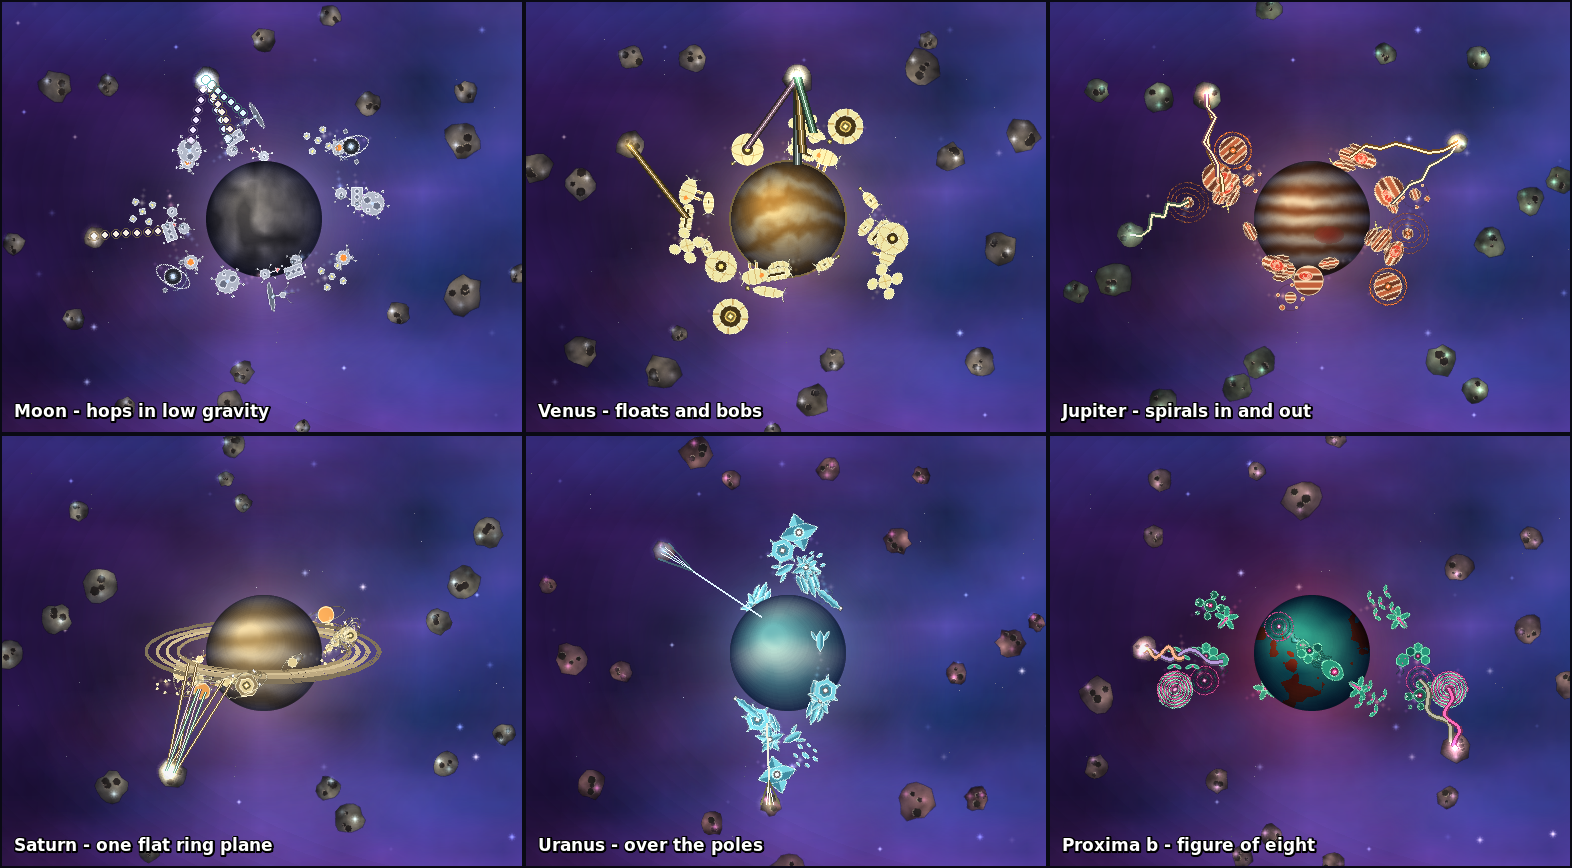
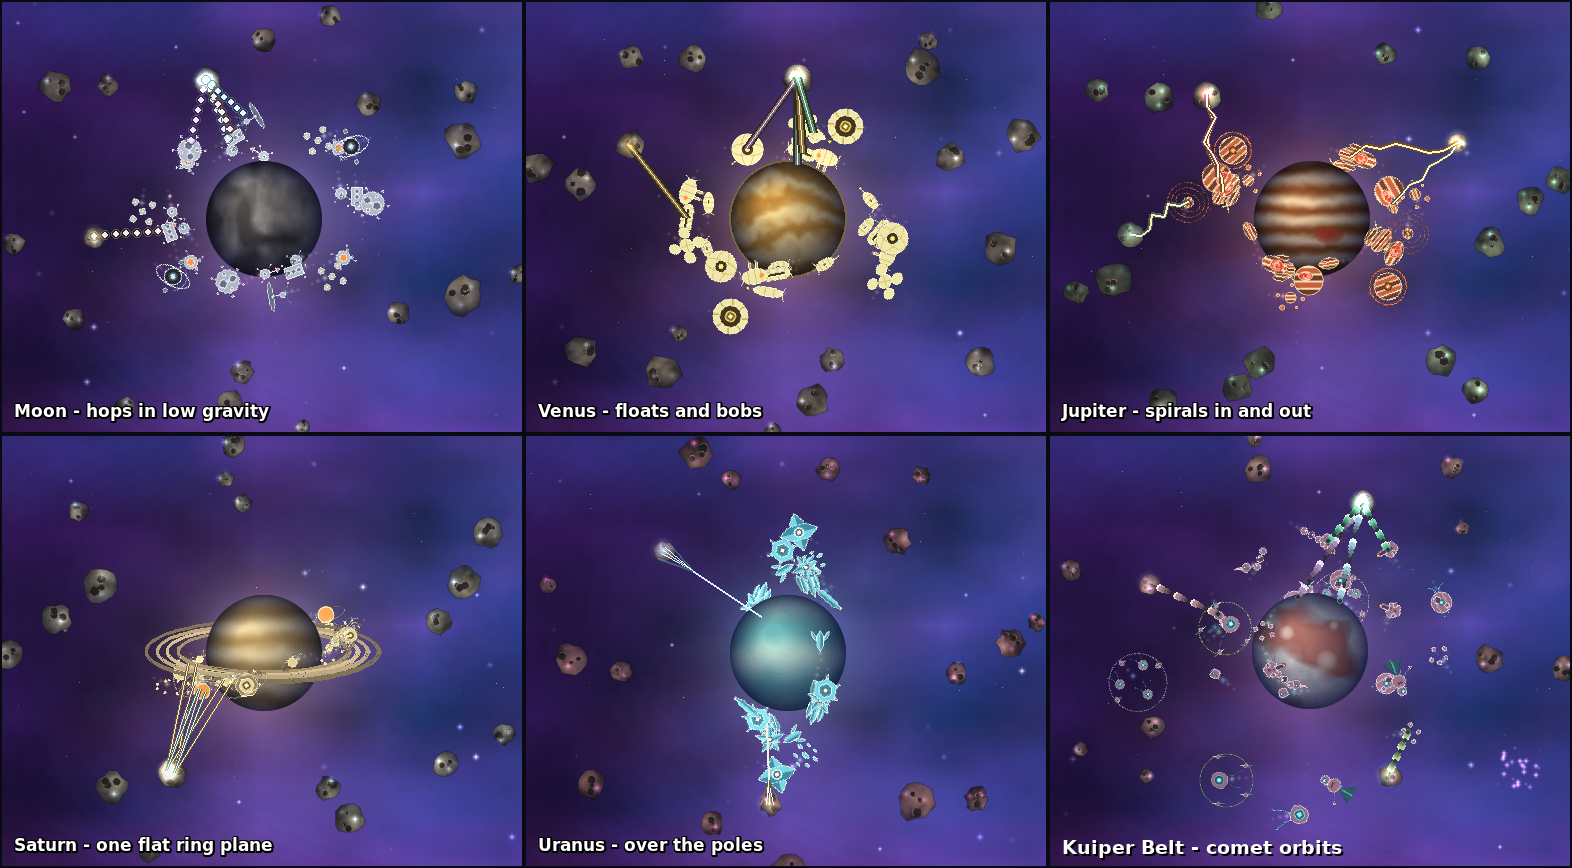
Replace Proxima b with the Kuiper Belt as the last planet of the solar system
- The 12th planet is now the Kuiper Belt (ice dwarf world with tholin patches,
  Tholin ore, Comet Catchers megaproject); price, production and perk numbers
  are unchanged, so saves and balance stay as they were.
- A fleet of comets and snowballs (new hull family, comet mining beam and a long
  comet-orbit flight path) replaces the living spores; the spore family stays in
  the code for a later planet.
- The Interstellar achievement is now Last Frontier; old saves keep it.
- Self-test, README, changelog and screenshots (roster sheet, planet scenes).

diff --git a/shipart.py b/shipart.py
@@ -2,7 +2,7 @@
 
 Earth keeps the classic hulls (gfx.make_ship). Every other planet has a family of eight ships (Drone, Rig, Barge, Refinery,
 Foundry, Swarm, Tap, Engine) built from its own shapes and its own colours - landers on legs, wheeled rovers, airships,
-sun-shields, tumbling rocks, striped storm hulls, ringed discs, crystals, deep-sea creatures, ice sleds, living spores -
+sun-shields, tumbling rocks, striped storm hulls, ringed discs, crystals, deep-sea creatures, ice sleds, comets and snowballs -
 so a fleet can be told apart from another planet's at a glance. `beam()` draws each family's mining laser.
 
 Ships point to the right (+x); shapes are described in units of the hull radius, roughly -1..1.
@@ -710,7 +710,7 @@ def sled(d, t):
         d.spot(0, 0, .15, (255, 200, 230))
 
 
-# ------------------------------------------------------------------ Proxima b: living spores
+# ------------------------------------------------------------------ living spores (no planet uses this family yet)
 def spore(d, t):
     def blob(cx, cy, r, fill=HULL):
         rng = random.Random(int(cx * 17 + cy * 31 + r * 7))
@@ -779,8 +779,78 @@ def spore(d, t):
         d.spot(0, 0, .12, (255, 150, 220))
 
 
+# ------------------------------------------------------------------ Kuiper Belt: comets and snowballs
+def comet(d, t):
+    def tail(x, y, length=.9, spread=.28, n=3, col=None):
+        for k in range(n):
+            off = (k - (n - 1) / 2) * spread
+            d.line((x - .1, y + off * .3), (x - length, y + off), col or d.glow, 1.3)
+
+    def lump(cx, cy, r, seed, fill=None):
+        _rock(d, cx, cy, r, seed, fill)
+    if t == 0:
+        tail(0, 0, .95, .3, 3)
+        lump(.3, 0, .5, 1)
+        d.spot(.45, -.08, .09)
+    elif t == 1:
+        d.line((-1.05, 0), (0, 0), d.glow, 2.6)
+        d.line((-1.05, 0), (0, 0), (255, 255, 255), .8)
+        lump(.1, 0, .42, 2)
+        d.poly([(.45, -.1), (1.12, 0), (.45, .1)], d.acc)
+        d.spot(.2, .05, .09)
+    elif t == 2:
+        tail(-.62, 0, .45, .32, 3)
+        for k, x in enumerate((.72, .12, -.48)):
+            d.circ(x, 0, .31, d.hull if k % 2 == 0 else d.mid)
+            d.circ(x + .07, -.08, .08, (255, 255, 255), None)
+        d.line((.43, 0), (.43, 0), d.trim, 1)
+        d.line((.38, 0), (.5, 0), d.trim, 2.5)
+        d.line((-.18, 0), (-.06, 0), d.trim, 2.5)
+        d.spot(.82, 0, .07)
+    elif t == 3:
+        tail(-.3, -.2, .7, .3, 3, (255, 206, 196))
+        lump(.05, .12, .62, 3)
+        d.rect(-.1, -.74, .22, -.2, d.mid)
+        d.circ(.45, .12, .2, d.mid)
+        d.circ(-.28, .24, .17, d.mid)
+        d.circ(.45, .12, .08, (214, 110, 96), None)
+        d.circ(-.28, .24, .06, (214, 110, 96), None)
+        d.spot(.06, -.78, .09, (255, 160, 130))
+    elif t == 4:
+        d.lines([(-.68, -.08), (-.98, -.22), (-1.2, -.52)], d.glow, 2)
+        d.lines([(-.68, .08), (-.98, .22), (-1.2, .52)], d.glow, 2)
+        d.circ(0, 0, .72)
+        d.circ(-.22, .22, .26, d.mid)
+        d.circ(.3, -.26, .18, d.mid)
+        d.arc(0, 0, .98, .3, 0, math.tau, d.trim, 1.4)
+        for k in range(6):
+            a = k * math.tau / 6 + .4
+            d.circ(math.cos(a) * .98, math.sin(a) * .3, .05, d.glow, None)
+        d.spot(0, 0, .12)
+    elif t == 5:
+        for k, (x, y) in enumerate(((.55, 0), (.15, .52), (.15, -.52), (-.3, .26), (-.3, -.26))):
+            d.line((x - .1, y), (x - .55, y), d.glow, 1.2)
+            lump(x, y, .17, 10 + k)
+            d.circ(x + .04, y - .04, .04, (255, 255, 255), None)
+    elif t == 6:
+        d.line((-.2, -.3), (-.55, -.88), d.trim, 1.5)
+        d.circ(-.55, -.88, .11, d.mid)
+        d.poly([(-.42, -.1), (-1.18, -.52), (-1.18, .52), (-.42, .1)], lerp_c(d.glow, (0, 0, 0), .62), None)
+        d.line((-.5, 0), (-1.18, 0), d.glow, 1.6)
+        lump(.0, 0, .46, 6)
+        lump(.56, .02, .33, 7)
+        d.spot(.62, -.04, .1)
+    else:
+        for off in (-.3, .3):
+            d.lines([(.0 - k * .13, off * (.35 + k * .17) + .05 * math.sin(k)) for k in range(10)], d.glow, 2.6)
+        d.arc(0, 0, 1.08, .52, -.9, .9, d.trim, 1.4)
+        lump(.28, 0, .64, 8)
+        d.circ(.28, 0, .3, d.dark, d.glow)
+        d.spot(.28, 0, .15)
+
+
 FAMILIES = dict(lander=lander, rover=rover, airship=airship, solar=solar, rock=rock, storm=storm, ringed=ringed,
-                crystal=crystal, deep=deep, sled=sled, spore=spore)
+                crystal=crystal, deep=deep, sled=sled, spore=spore, comet=comet)
 STYLES = ["classic"] + list(FAMILIES)
 
 
@@ -857,6 +927,13 @@ def beam(scr, style, a, b, col, t, seed=0):
             pygame.draw.polygon(scr, white, [(x + ux * 5, y + uy * 5), (x + nx * 3, y + ny * 3), (x - ux * 5, y - uy * 5),
                                              (x - nx * 3, y - ny * 3)])
         pygame.draw.line(scr, scale_c(col, .25), a, b, 2)
+    elif style == "comet":                                  # bright heads racing down the line, each with a sparkling tail
+        pygame.draw.line(scr, scale_c(col, .2), a, b, 2)
+        for k in range(4):
+            f = ((k / 4) + t * 1.1) % 1.0
+            for j in range(6):
+                x, y = at(max(0.0, f - j * .035))
+                pygame.draw.circle(scr, white if j == 0 else scale_c(col, 1 - j * .15), (x, y), max(1, 4 - j // 2))
     elif style == "spore":                                  # a living tendril
         pts = [at(k / 14, math.sin(k * .7 + t * 6) * 8 * math.sin(k / 14 * math.pi)) for k in range(15)]
         pygame.draw.lines(scr, dim, False, pts, 6)

diff --git a/core.py b/core.py
@@ -80,8 +80,8 @@ SITES = [
          perk="Deep-space drift: offline progress at 75%", fx=[("offline", 0.75)], unlock=(5e14, 1e13, 6e10)),
     dict(name="Pluto", ore="Exotic Matter", ocol=(120, 255, 155), col=(220, 200, 180), kind="pluto", bonus=5,
          perk="Edge of the system: Dark Matter gain x1.5", fx=[("dm", 1.5)], unlock=(1e16, 2e14, 1.2e12)),
-    dict(name="Proxima b", ore="Quantum Foam", ocol=(255, 175, 255), col=(220, 80, 50), kind="proxima", bonus=-1,
-         perk="Another star: all ore production x3, buildings x1.5", fx=[("ore", 3)], unlock=(2e17, 4e15, 2.4e13)),
+    dict(name="Kuiper Belt", ore="Tholin", ocol=(255, 175, 255), col=(176, 150, 176), kind="kuiper", bonus=-1,
+         perk="Comet harvesters: all ore production x3, buildings x1.5", fx=[("ore", 3)], unlock=(2e17, 4e15, 2.4e13)),
 ]
 NSITE = len(SITES)
 SC = [SCALE ** p for p in range(NSITE)]
@@ -128,7 +128,7 @@ _TECH_BASE = {t[0]: t[2] for t in TECHS}
 TECH_BY_ID = {t[0]: t for t in TECHS}
 
 # ------------------------------------------------------------------ pacing knobs (tuned with sim.py)
-UNLOCK_LOG = [3.32, 4.17, 7.64, 12.88, 16.74, 17.87, 19.62, 19.91, 22.04, 23.85, 26.94]   # log10 of normalised price, Moon..Proxima b
+UNLOCK_LOG = [3.32, 4.17, 7.64, 12.88, 16.74, 17.87, 19.62, 19.91, 22.04, 23.85, 26.94]   # log10 of normalised price, Moon..Kuiper Belt
 TUNE = dict(ushift=0.0, B=50.0, ccoef=0.17, texp=0.5, tpow=0.75, pshift=0.0, pcoef=0.17, sshift=0.0, cpow=1.25, sdbase=5.0, sdcoef=4.0, sdpow=0.16, cdiff=10.0, dmbase=0.40, dm_div=1e9, dm_pow=0.25)
 
 
@@ -199,7 +199,7 @@ PROJECTS = [  # name, description, effects   (cost: normalised ore PROJECT_LOG, 
     ("Ice Forges", "Ships 10% cheaper everywhere", [("disc", 0.10)]),
     ("Deep Core Mine", "All production x3", [("ore", 3)]),
     ("Edge Gate", "Dark Matter gain x2", [("dm", 2)]),
-    ("Alpha Dyson Swarm", "All production x5", [("ore", 5)]),
+    ("Comet Catchers", "All production x5", [("ore", 5)]),
 ]
 PROJECT_LOG = [4.48, 8.3, 12.28, 14.69, 16.51, 18.3, 19.54, 20.06, 22.22, 23.84, 27.93, 29.27]   # log10 of normalised ore
 
@@ -408,7 +408,7 @@ def build_achievements():
     for name, k, tier in [("Moonwalker", 1, "bronze"), ("Red Planet", 2, "bronze"), ("Morning Star", 3, "bronze"),
                           ("Scorched Earth", 4, "silver"), ("Belt Rider", 5, "silver"), ("Gas Giant", 6, "silver"),
                           ("Lord of the Rings", 7, "gold"), ("Ice Giant", 8, "gold"), ("Deep Blue", 9, "gold"),
-                          ("Edge of the System", 10, "platinum"), ("Interstellar", 11, "platinum")]:
+                          ("Edge of the System", 10, "platinum"), ("Last Frontier", 11, "platinum")]:
         add(name, f"Unlock {SITES[k]['name']}", "Planets", tier, lambda g, k=k: g.unlocked[k])
     ms("Planets", [("Tourist", 5, "bronze"), ("Grand Tour", NSITE, "gold")],
        lambda t: f"Visit {t} different planets", lambda g: len(g.visited))
@@ -534,6 +534,7 @@ def build_achievements():
 
 ACHIEVEMENTS = build_achievements()
 ACH_BY_ID = {a["id"]: a for a in ACHIEVEMENTS}
+RENAMED_ACH = {"Interstellar": "Last Frontier"}       # achievements that changed name: old saves keep them
 
 QUEST_TXT = {"clicks": "Click asteroids {} times", "bought": "Buy {} ships",
              "all_norm": "Mine {} ore (Earth-equivalent)", "crates": "Grab {} supply crates",
@@ -742,7 +743,7 @@ class Game:
             self.warps = int(d["warps"]); self.clicks = int(d["clicks"]); self.crates = int(d["crates"])
             self.bought = int(d["bought"]); self.bldg = int(d["bldg"])
             self.events_done = int(d["events_done"]); self.quests_done = int(d["quests_done"])
-            self.ach = {a for a in d["ach"] if a in ACH_BY_ID}
+            self.ach = {RENAMED_ACH.get(a, a) for a in d["ach"]} & set(ACH_BY_ID)
             self.ups_bought = int(d.get("ups_bought", 0)); self.travels = int(d.get("travels", 0))
             self.frenzies = int(d.get("frenzies", 0)); self.best_burst = int(d.get("best_burst", 0))
             self.away_max = float(d.get("away_max", 0)); self.night_secs = float(d.get("night_secs", 0))

diff --git a/ships.py b/ships.py
@@ -90,13 +90,13 @@ ROSTERS = [
                  "Cracks ice into exotic fuel", "A twin world's workshop", "Hunters at the system's edge",
                  "Taps the last sunlight", "Bends space at the edge",
                  "A fortress on the nitrogen glacier", "The last fleet at the edge of the Sun"]),
-    dict(  # Proxima b
-         names=["Spore Drone", "Bloom Lance", "Hive Barge", "Quantum Refinery", "Foam Foundry", "Alien Swarm",
-                "Red-Dwarf Tap", "Foam Engine", "Bloom Citadel", "Spore Ark"],
-         blurbs=["A living seed with an engine", "A beam grown, not built", "A drifting alien hive",
-                 "Refines the fabric of space", "Forges bubbles of foam", "Strange minds, many wings",
-                 "Drinks the red dwarf's glow", "Turns quantum foam to power",
-                 "A fortress grown like a flower", "Seeds a thousand worlds"]),
+    dict(  # Kuiper Belt
+         names=["Comet Skiff", "Tail Lance", "Snowball Barge", "Tholin Refinery", "Makemake Foundry", "Oort Swarm",
+                "Arrokoth Tap", "Sedna Engine", "Eris Citadel", "Halley Ark"],
+         blurbs=["Hitches a ride on a passing comet", "A beam as long as a comet's tail", "Hauls whole snowballs by the dozen",
+                 "Cooks red organic sludge into fuel", "Built on a world nobody visits", "Grit from the edge of the Sun's reach",
+                 "Taps a snowman made of ice", "Falls in on an 11,000-year orbit", "Guards the dwarf planet of discord",
+                 "A fleet that returns every 76 years"]),
 ]
 
 # How each planet's ships look and move. style: the hull family drawn by shipart.py; pal: the colours (hull, shade, trim,
@@ -123,8 +123,8 @@ LOOKS = [
          scale=1.25, motion="weave"),                                                                  # Neptune
     dict(style="sled", pal=((208, 186, 222), (142, 118, 162), (255, 246, 255), (255, 170, 212)),
          scale=1.1, motion="drift"),                                                                 # Pluto
-    dict(style="spore", pal=((40, 152, 122), (20, 92, 82), (150, 255, 206), (255, 90, 170)),
-         scale=1.15, motion="eight"),                                                                 # Proxima b
+    dict(style="comet", pal=((150, 112, 134), (84, 58, 82), (240, 222, 244), (120, 235, 255)),
+         scale=1.15, motion="sweep"),                                                                 # Kuiper Belt
 ]
 for _r, _look in zip(ROSTERS, LOOKS):
     _r.update(_look)
@@ -215,6 +215,14 @@ def orbit(p, i, j, n, t, d):
     if m == "drift":                                         # slow, wide and lonely
         a = t * spd * .4 * d + ph
         return math.cos(a) * rad * 1.15, math.sin(a) * rad * .9, math.sin(a)
+    if m == "sweep":                                         # a comet's long, lopsided orbit, each class on its own axis
+        e = .5
+        mean = t * spd * 1.0 * d + ph
+        nu = mean + 2 * e * math.sin(mean) + 1.25 * e * e * math.sin(2 * mean)
+        r = rad * .85 * (1 - e * e) / (1 + e * math.cos(nu))
+        x, y = math.cos(nu) * r, math.sin(nu) * r * .7
+        c, sn = math.cos(i * .7), math.sin(i * .7)
+        return x * c - y * sn, x * sn + y * c, math.sin(nu)
     if m == "eight":                                         # a figure of eight that crosses over the planet
         a = t * spd * .8 * d + ph
         return math.sin(a) * rad * 1.1, math.sin(a) * math.cos(a) * rad * .95, math.cos(a)

diff --git a/space_miner.py b/space_miner.py
@@ -2648,6 +2648,36 @@ def check_more_ships():
         shutil.rmtree(d, ignore_errors=True)
 
 
+def check_kuiper_belt():
+    """The solar system ends at the Kuiper Belt (not at another star's planet), and a save that earned the old achievement
+    for the last planet keeps it under its new name."""
+    last = SITES[NSITE - 1]
+    assert last["name"] == "Kuiper Belt" and last["kind"] == "kuiper" and not any("Proxima" in s["name"] for s in SITES)
+    assert ships.style(NSITE - 1) == "comet" and "comet" in shipart.FAMILIES and ships.motion(NSITE - 1) == "sweep"
+    for i in range(NSH):                                       # the comet orbit stays on screen for every class and ship
+        for j in range(4):
+            for tt in (0.0, 3.3, 9.9, 21.0):
+                x, y, depth = ships.orbit(NSITE - 1, i, j, 4, tt, 1)
+                assert abs(x) < 300 and abs(y) < 250 and abs(depth) <= 1.0, (i, j, tt, x, y)
+    assert "Last Frontier" in core.ACH_BY_ID and "Interstellar" not in core.ACH_BY_ID
+    old_save = core.SAVE
+    d = tempfile.mkdtemp(prefix="space_miner_kuiper_")
+    try:
+        core.SAVE = os.path.join(d, "save.json")
+        g = core.Game(load=False, sim=True)
+        g.save()
+        with open(core.SAVE) as f:
+            data = json.load(f)
+        data["ach"] = ["Interstellar", "Small Fleet"]
+        with open(core.SAVE, "w") as f:
+            json.dump(data, f)
+        h = core.Game(load=True, sim=True)
+        assert "Last Frontier" in h.ach and "Interstellar" not in h.ach and "Small Fleet" in h.ach
+    finally:
+        core.SAVE = old_save
+        shutil.rmtree(d, ignore_errors=True)
+
+
 def check_galaxy():
     """The Milky Way's data and the reach map agree with a brute-force check."""
     N = galaxy.N
@@ -2839,6 +2869,7 @@ def selftest_step(app, g, frames, shot):
         check_ship_art(app)
         check_galaxy()
         check_more_ships()
+        check_kuiper_belt()
         check_fronts()
         check_counter_offensives()
         check_new_game_reset()

diff --git a/gfx.py b/gfx.py
@@ -165,10 +165,16 @@ def _planet_color(kind, v, v2, x, y, S, base):
         if dx * dx + dy * dy < 1:
             c = lerp_c(c, (250, 244, 238), 0.75)
         return c
-    if kind == "proxima":
-        if v > 0.5:
-            return lerp_c((100, 26, 18), (210, 84, 40), v2)
-        return lerp_c((16, 100, 116), (60, 190, 170), v2)
+    if kind == "kuiper":                  # a dwarf world of ice with dark red-brown patches of tholin and a few bright craters
+        c = lerp_c((164, 176, 204), (244, 247, 255), min(1.0, v * 1.6))
+        if v2 > 0.4:
+            c = lerp_c(c, lerp_c((98, 56, 68), (178, 112, 112), min(1.0, v2 * 1.3)), min(0.9, (v2 - 0.4) * 3.4))
+        for cx, cy, cr in ((0.30, 0.34, 0.07), (0.64, 0.58, 0.10), (0.42, 0.72, 0.05), (0.7, 0.28, 0.045)):
+            dx, dy = (x - cx * S) / (cr * S), (y - cy * S) / (cr * S)
+            q = dx * dx + dy * dy
+            if q < 1:
+                c = lerp_c(c, (250, 252, 255), 0.6 * (1 - q))
+        return c
     return lerp_c((90, 90, 90), (200, 200, 200), v)
 
 

diff --git a/README.md b/README.md
@@ -152,7 +152,7 @@ There are 10 ship **classes**, from the humble Drone to the Galaxy Ark, and **ev
 | Uranus | Ice-blue crystals | Over the poles, round the sideways planet | A beam that splits into a fan |
 | Neptune | Deep-sea creatures: fish, manta rays, tridents, squid | Weave through the dark | A wavy beam |
 | Pluto | Pale ice sleds, snowballs and hearts | A slow, wide, lonely drift | Slow ice shards |
-| Proxima b | Living spores, jellies and tendrils | A figure of eight over the planet | A living tendril |
+| Kuiper Belt | Comets and snowballs: mauve nuclei with glowing tails | Long, lopsided comet orbits | Bright comet heads racing down a line |
 
 ![Every planet flies its own way](screenshots/59-planet-scenes.png)
 
@@ -216,7 +216,11 @@ Once a planet is unlocked, click it in the bottom strip (or the Planets tab) to 
 | 9 | Uranus | Antimatter | Cold engines: all ore production x2 |
 | 10 | Neptune | Dark Crystal | Deep-space drift: offline progress at 75% |
 | 11 | Pluto | Exotic Matter | Edge of the system: Dark Matter gain x1.5 |
-| 12 | Proxima b | Quantum Foam | Another star: all ore production x3, buildings x1.5 |
+| 12 | Kuiper Belt | Tholin | Comet harvesters: all ore production x3, buildings x1.5 |
+
+The solar system ends at the **Kuiper Belt**: a dwarf world of ice with dark tholin patches, mined for Tholin by a fleet of comets and snowballs that sweep round it on long comet orbits (the planets of other stars - Proxima Centauri, TRAPPIST-1 - are systems you conquer on the galaxy map).
+
+![The Kuiper Belt and its fleet](screenshots/72-kuiper-belt.png)
 
 A "Next planet" progress bar in the top-left corner shows how close you are, and hovering a planet in the bottom strip lists exactly what it costs.
 
@@ -235,7 +239,7 @@ The **Colony** tab lets you build on the current planet. Credits and Science, wh
 | Fusion Reactor | credits | +2.5% ALL production / level |
 | Defense Grid | science | +4% crate frequency, +10% defense vs raids / level |
 
-Each planet gives a x2 boost to one building type (Proxima b boosts all of them x1.5), and buildings go up to level 50.
+Each planet gives a x2 boost to one building type (the Kuiper Belt boosts all of them x1.5), and buildings go up to level 50.
 
 Every planet also has one **megaproject** at the bottom of its Colony tab. It costs a huge pile of that planet's ore *plus* credits and science, and it permanently boosts your whole empire - even through Warps. That is what makes the old ores worth keeping.
 
@@ -254,7 +258,7 @@ Every planet also has one **megaproject** at the bottom of its Colony tab. It co
 | Uranus | Ice Forges | Ships 10% cheaper everywhere |
 | Neptune | Deep Core Mine | All production x3 |
 | Pluto | Edge Gate | Dark Matter gain x2 |
-| Proxima b | Alpha Dyson Swarm | All production x5 |
+| Kuiper Belt | Comet Catchers | All production x5 |
 
 ### 5. Tech tree
 
@@ -631,7 +635,7 @@ The pacing (planets, megaprojects and the march to the Galactic Centre) was tune
 | Ceres / Jupiter | 5 - 17 hours |
 | Saturn / Uranus | 15 - 33 hours |
 | Neptune / Pluto | 25 - 55 hours |
-| Proxima b | 45 - 70 hours |
+| Kuiper Belt | 45 - 70 hours |
 | Every megaproject built | 50 - 100 hours |
 | The final boss (Void Throne) | 65 - 90 hours |
 | First Ascension, then every later cycle | after the boss; cycles of ~40 - 65 hours |

diff --git a/CHANGELOG.md b/CHANGELOG.md
@@ -1,5 +1,9 @@
 # Changelog
 
+## Unreleased
+
+- **The Kuiper Belt replaces Proxima b** as the 12th and last planet of the solar system: Proxima b belongs to another star, so the first part of the game is now the solar system only. Same place in the game (price, ore production x3, buildings x1.5, megaproject x5), new look: an ice dwarf world with tholin patches, Tholin ore, the *Comet Catchers* megaproject and a fleet of comets and snowballs (Comet Skiff ... Eris Citadel, Halley Ark) that sweep round the planet on long comet orbits. Saves are unchanged (the Interstellar achievement is now Last Frontier and is kept).
+
 ## 1.1.0
 
 The galaxy is now the real Milky Way with thousands of systems, you can attack several fronts at once, the enemy can take your systems, and every planet has two more ship classes.
